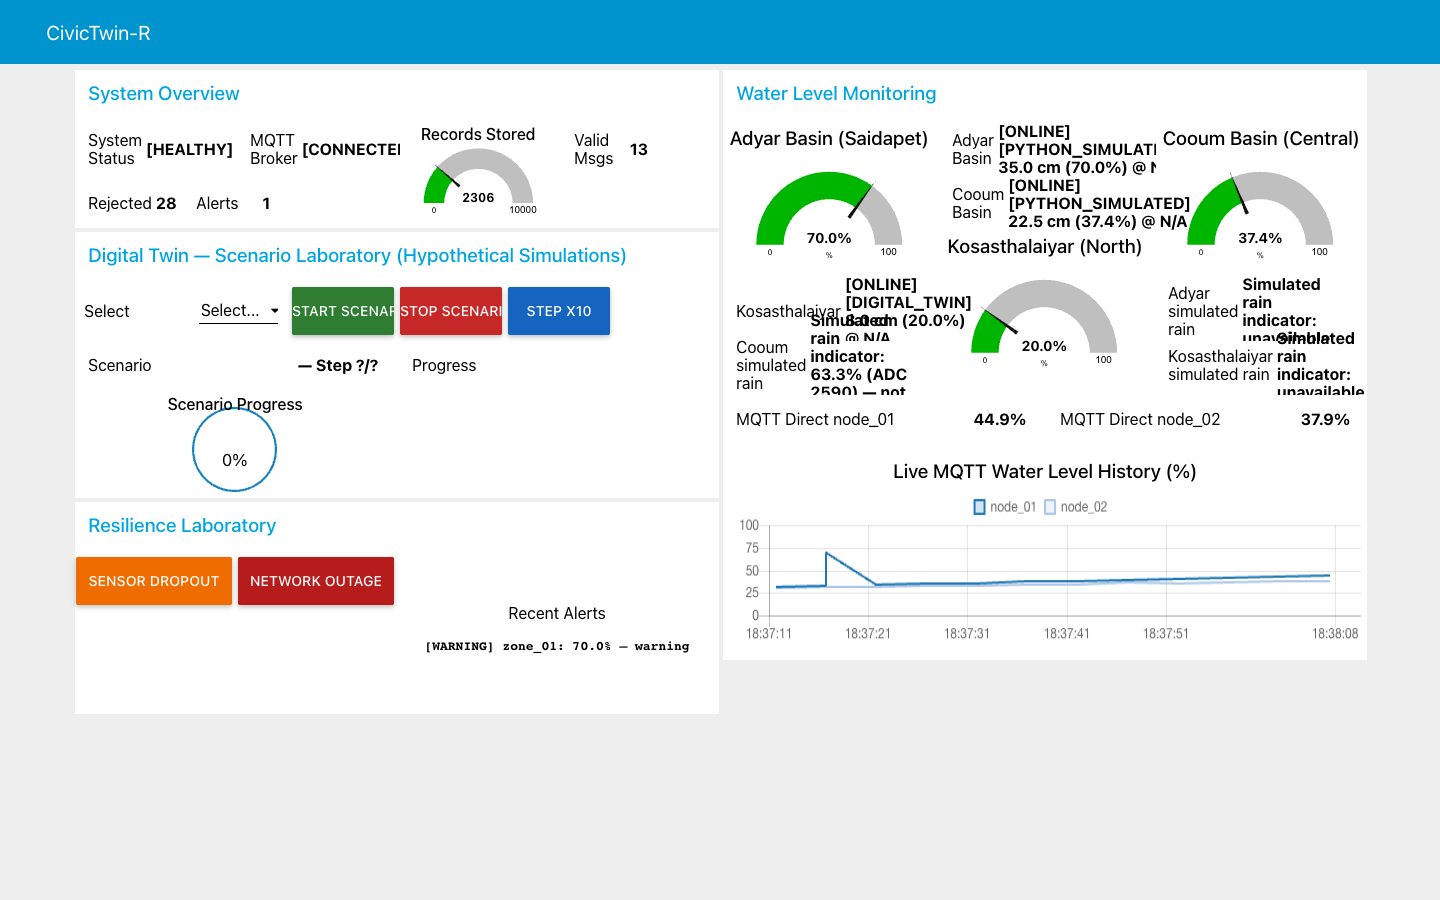
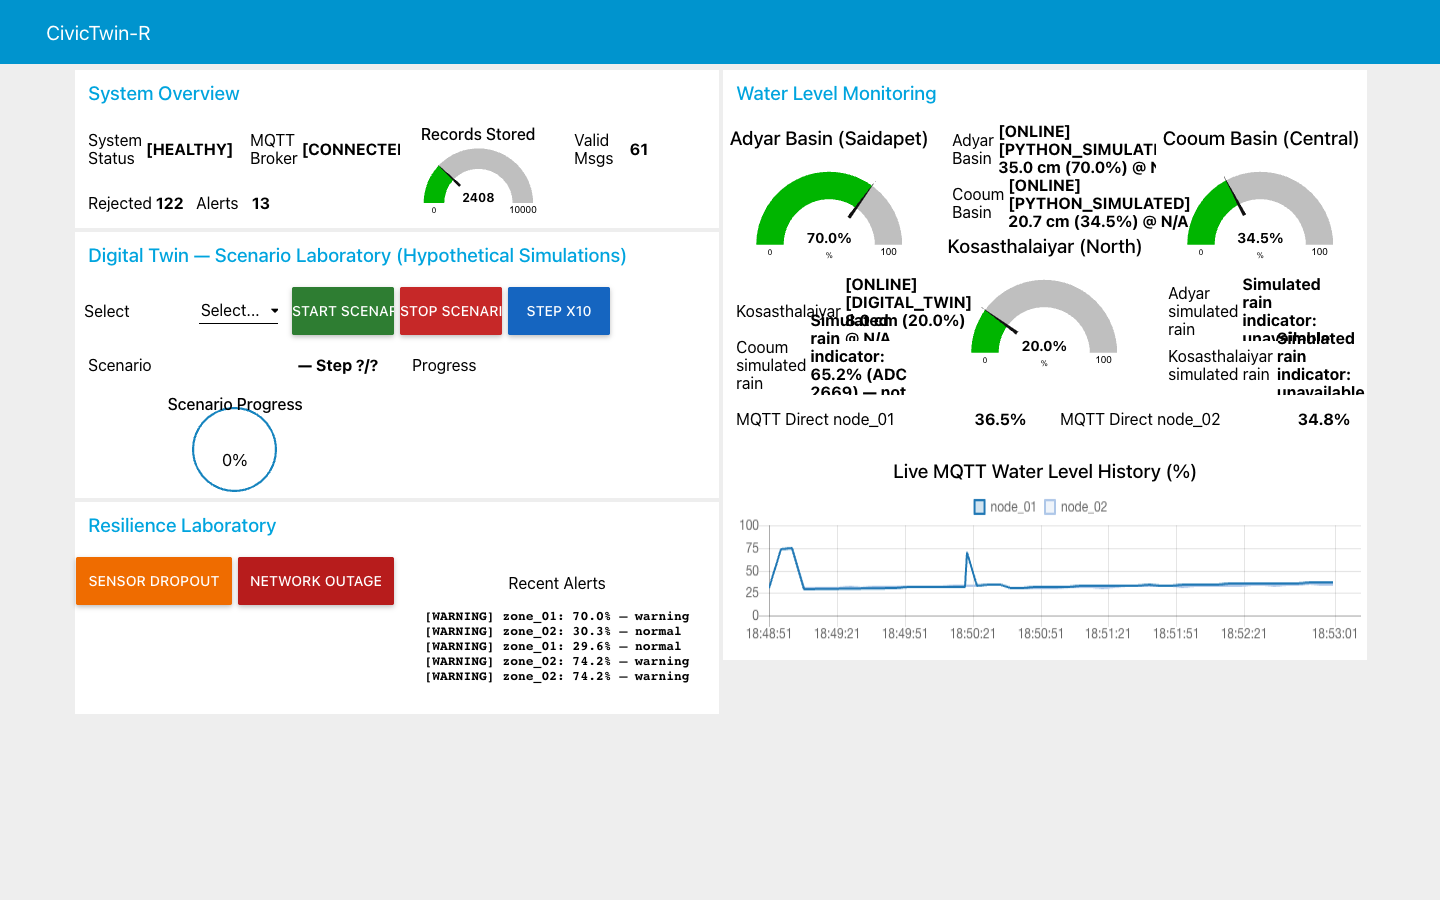
fix: enforce SQLite duplicate return status, monotonic node sequences, and unique freshness entries

diff --git a/scripts/mqtt_node_simulator.py b/scripts/mqtt_node_simulator.py
@@ -18,6 +18,7 @@ import logging
 import math
 import random
 import signal
+import sqlite3
 import sys
 import threading
 import time
@@ -43,6 +44,25 @@ logger = logging.getLogger("civictwin.mqtt_sim")
 CONTROL_FILE = PROJECT_ROOT / ".run" / "simulator_control.json"
 
 
+def _initial_sequence_for_node(node_id: str) -> int:
+    """Return a monotonic starting sequence strictly above persisted SQLite rows."""
+    base = int(time.time())
+    db_path = Path(config.SQLITE_DB_PATH)
+    if not db_path.exists():
+        return base
+    try:
+        with sqlite3.connect(str(db_path), timeout=2.0) as conn:
+            row = conn.execute(
+                "SELECT COALESCE(MAX(sequence), 0) FROM telemetry WHERE device_id = ?",
+                (node_id,),
+            ).fetchone()
+            max_seq = int(row[0]) if row and row[0] is not None else 0
+            return max(base, max_seq)
+    except sqlite3.Error as exc:
+        logger.debug("Could not inspect max sequence for %s: %s", node_id, exc)
+        return base
+
+
 class SimulatedNode:
     """Represents a simulated IoT node running tank physics and local edge logic."""
 
@@ -53,12 +73,13 @@ class SimulatedNode:
         tank_model: PhysicalTankModel,
         seed: int = 42,
         speed_multiplier: float = 1.0,
+        initial_sequence: int = 0,
     ):
         self.node_id = node_id
         self.zone_id = zone_id
         self.tank = tank_model
         self.rng = random.Random(seed + hash(node_id))
-        self.sequence = 0
+        self.sequence = initial_sequence
         self.is_paused = False
         self.is_disconnected = False
         self.sensor_fault = False
@@ -197,8 +218,20 @@ class MultiNodeMqttSimulator:
         tank2 = PhysicalTankModel(geometry=geom2, drainage_k=6.0, initial_level_cm=18.0, default_q_in_cm3_s=35.0)
 
         self.nodes = {
-            "node_01": SimulatedNode("node_01", "zone_01", tank1, seed=seed),
-            "node_02": SimulatedNode("node_02", "zone_02", tank2, seed=seed + 100),
+            "node_01": SimulatedNode(
+                "node_01",
+                "zone_01",
+                tank1,
+                seed=seed,
+                initial_sequence=_initial_sequence_for_node("node_01"),
+            ),
+            "node_02": SimulatedNode(
+                "node_02",
+                "zone_02",
+                tank2,
+                seed=seed + 100,
+                initial_sequence=_initial_sequence_for_node("node_02"),
+            ),
         }
 
         self._lock = threading.Lock()

diff --git a/backend/storage.py b/backend/storage.py
@@ -183,7 +183,7 @@ class SQLiteStorage(StorageBackend):
             try:
                 src_val = record.source.value if hasattr(record.source, "value") else str(record.source)
                 status_val = record.sensor_status.value if hasattr(record.sensor_status, "value") else str(record.sensor_status)
-                self._conn.execute(
+                cur = self._conn.execute(
                     """INSERT OR IGNORE INTO telemetry
                        (device_id, zone_id, sequence, event_timestamp,
                         ingestion_timestamp, distance_cm, water_level_cm,
@@ -213,6 +213,9 @@ class SQLiteStorage(StorageBackend):
                     ),
                 )
                 self._conn.commit()
+                if cur.rowcount == 0:
+                    logger.debug("Duplicate record ignored: %s seq=%d", record.device_id, record.sequence)
+                    return False
                 stored = True
             except sqlite3.IntegrityError:
                 logger.debug("Duplicate record: %s seq=%d", record.device_id, record.sequence)

diff --git a/tests/test_all.py b/tests/test_all.py
@@ -526,11 +526,13 @@ class TestStorage:
 
     def test_sqlite_duplicate_rejection(self):
         with tempfile.NamedTemporaryFile(suffix=".db") as tmp:
-            store = SQLiteStorage(tmp.name)
+            secondary = MemoryStorage()
+            store = SQLiteStorage(tmp.name, secondary_storage=secondary)
             rec = self._make_record("z1", 1)
-            assert store.store(rec)
-            store.store(rec)
+            assert store.store(rec) is True
+            assert store.store(rec) is False
             assert store.count() == 1
+            assert secondary.count() == 1
             store.close()
 
     def test_query_all_latest(self):

diff --git a/backend/ingestion.py b/backend/ingestion.py
@@ -362,7 +362,8 @@ class IngestionService:
                         "sensor_status": "offline",
                     }
             for zid, zdata in self._zone_status.items():
-                if zid not in tracked_entities:
+                dev_id = zdata.get("device_id")
+                if zid not in tracked_entities and (not dev_id or dev_id not in tracked_entities):
                     tracked_entities[zid] = zdata
 
             for entity_id, status in tracked_entities.items():

diff --git a/tests/test_tank_twin.py b/tests/test_tank_twin.py
@@ -348,6 +348,8 @@ class TestRestApiExtensions:
         data = resp.json()
         assert isinstance(data, list)
         assert len(data) >= 2  # node_01 and node_02
+        node_ids = [item["node_id"] for item in data]
+        assert len(node_ids) == len(set(node_ids))
         states = {item["node_id"]: item["freshness_state"] for item in data}
         assert "node_01" in states
         assert "node_02" in states
